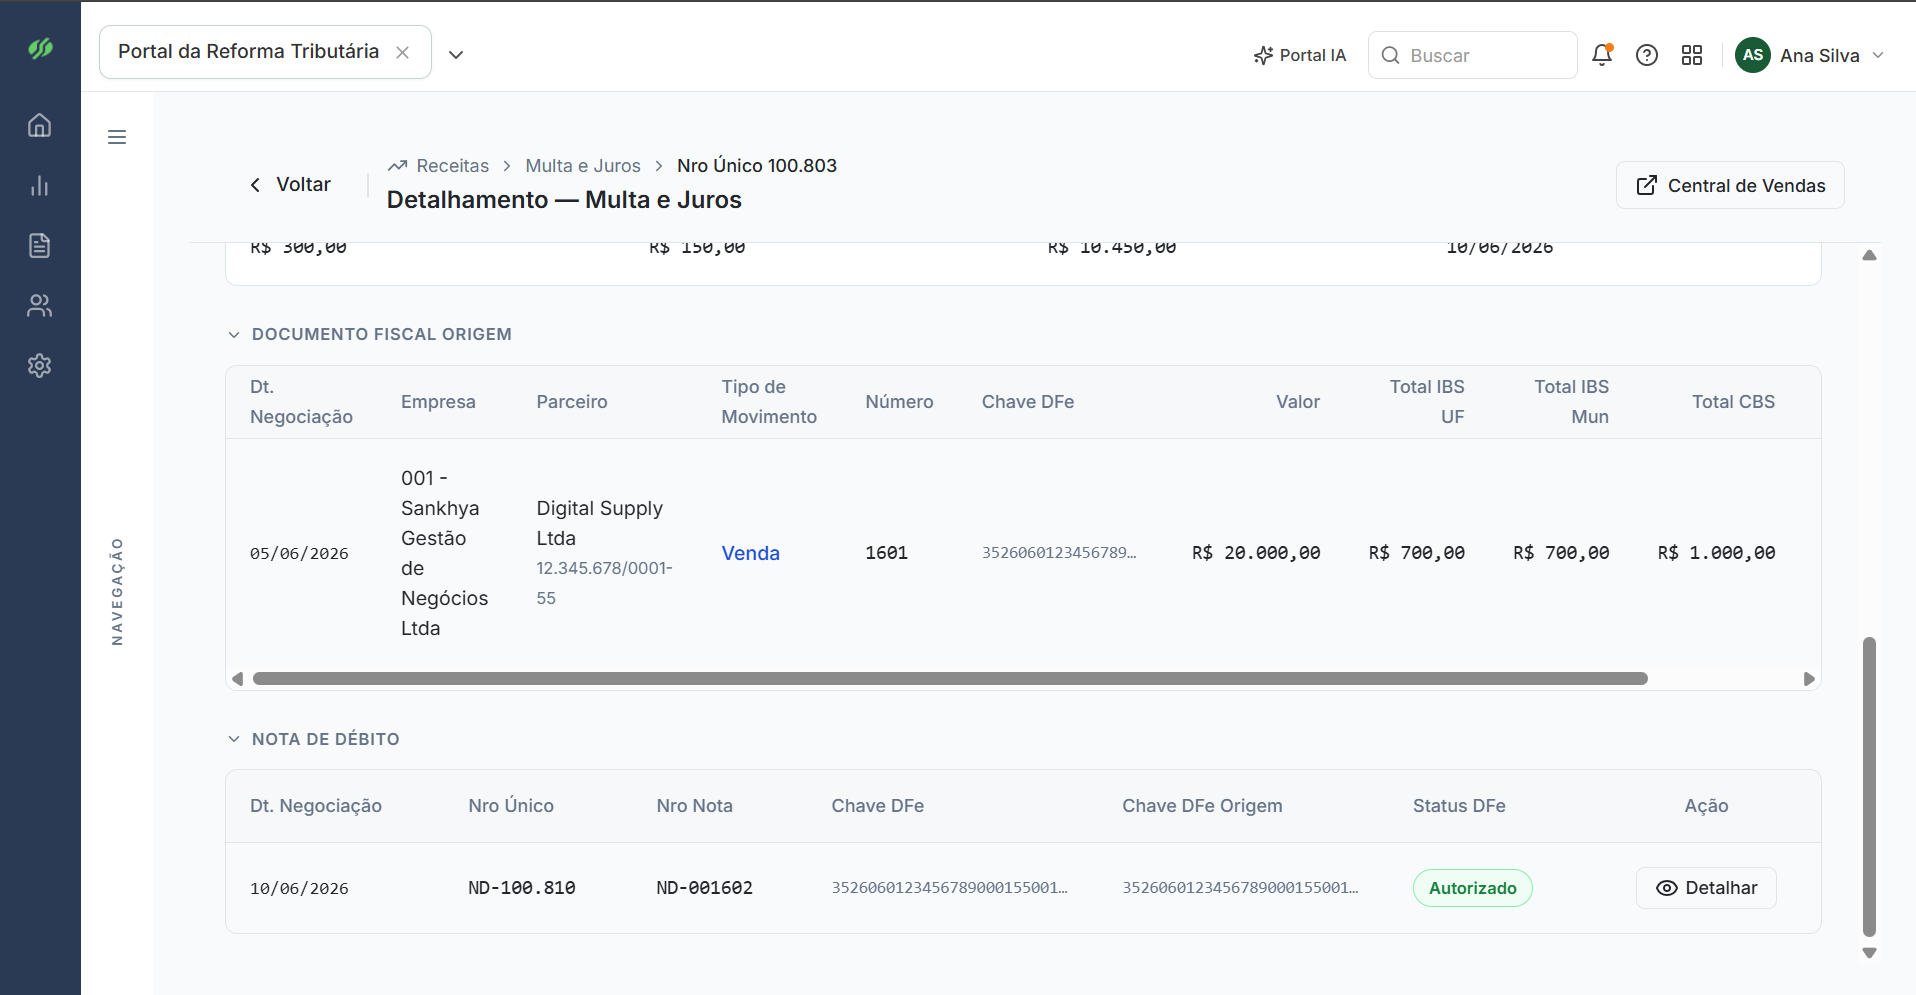
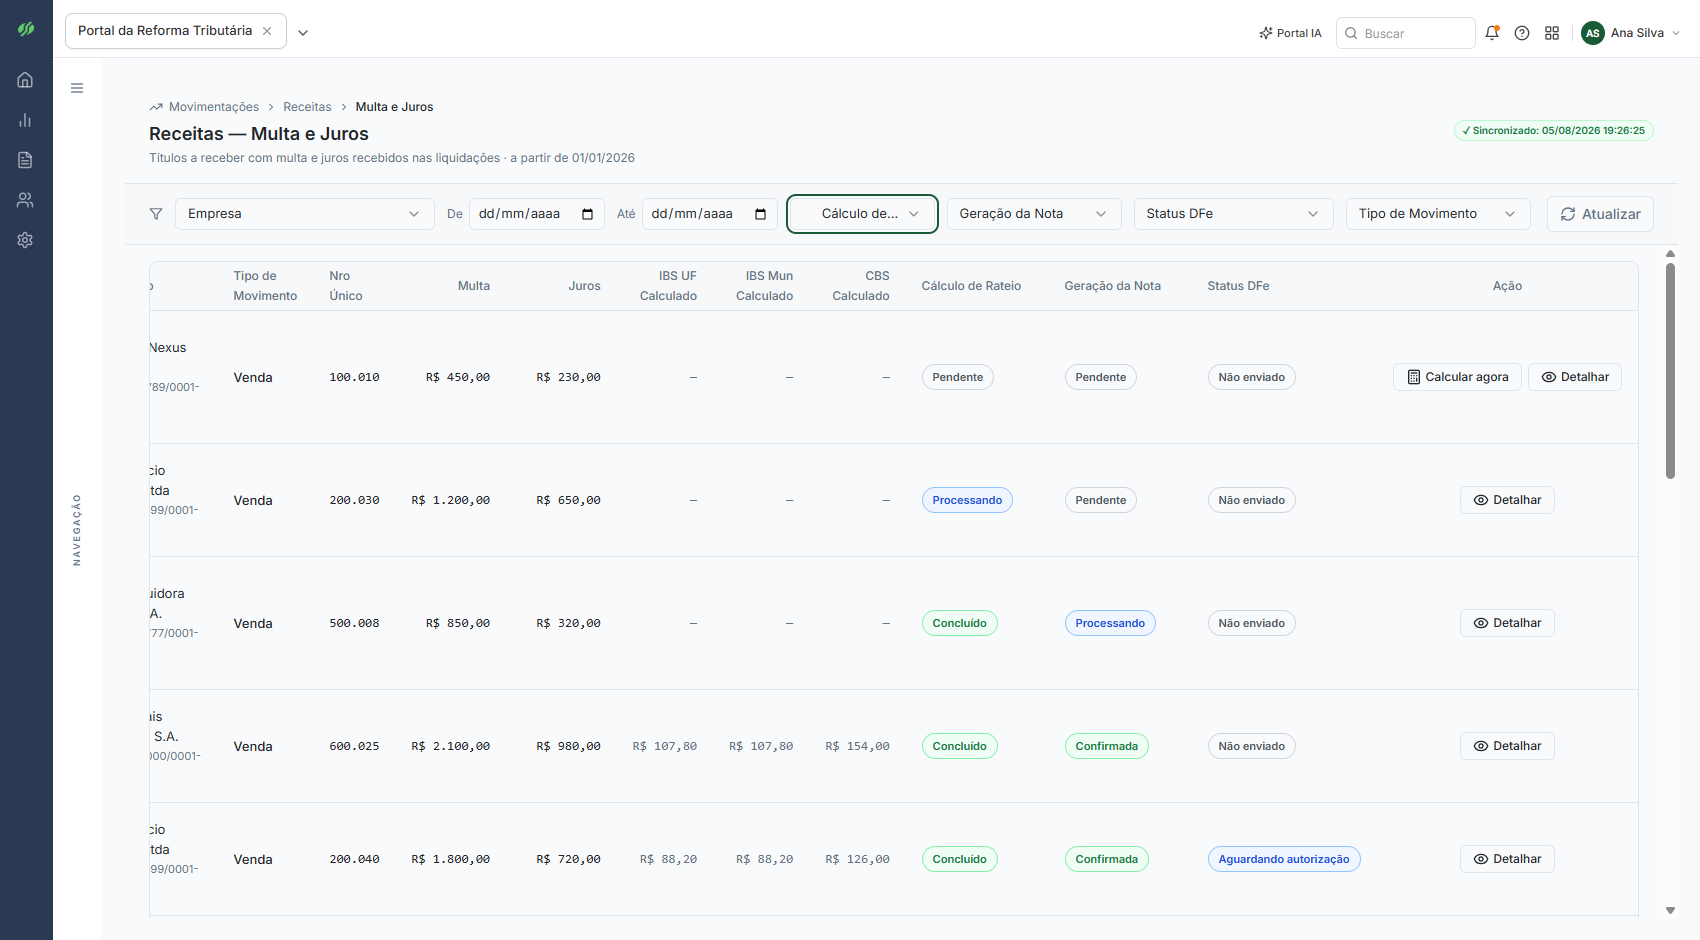
ajustes

diff --git a/index.html b/index.html
@@ -268,11 +268,11 @@
         <div class="compare-col solution">
           <div class="c-label">COM O PORTAL DA REFORMA TRIBUTÁRIA</div>
           <ul>
-            <li>Título em atraso identificado automaticamente</li>
+            <li>Título em atraso integrado ao Portal da Reforma Tributária</li>
             <li>Multa e juros calculados pela regra já configurada</li>
             <li>Nota de origem localizada pelo sistema</li>
             <li>Rateio aplicado automaticamente nos itens</li>
-            <li>Nota de débito emitida sem intervenção manual</li>
+            <li>Nota de débito gerada sem intervenção manual</li>
           </ul>
         </div>
       </div>

diff --git a/demonstracao.html b/demonstracao.html
@@ -253,6 +253,7 @@
           { img: 'img/emissao-depois-1.png', desc: 'Portal da Reforma Tributária: Receitas › Multa e Juros já mapeado e monitorado.' },
           { img: 'img/emissao-depois-2.png', desc: 'O sistema identifica sozinho os títulos com multa e juros pendentes de nota.' },
           { img: 'img/emissao-depois-3.png', desc: 'Detalhamento mostra a nota de débito já emitida automaticamente, vinculada ao documento de origem.' },
+          { img: 'img/emissao-depois-4.png', desc: 'Nota de débito gerada e disponível para transmissão no Portal de Vendas, sem intervenção manual.' },
         ],
       },
     },
